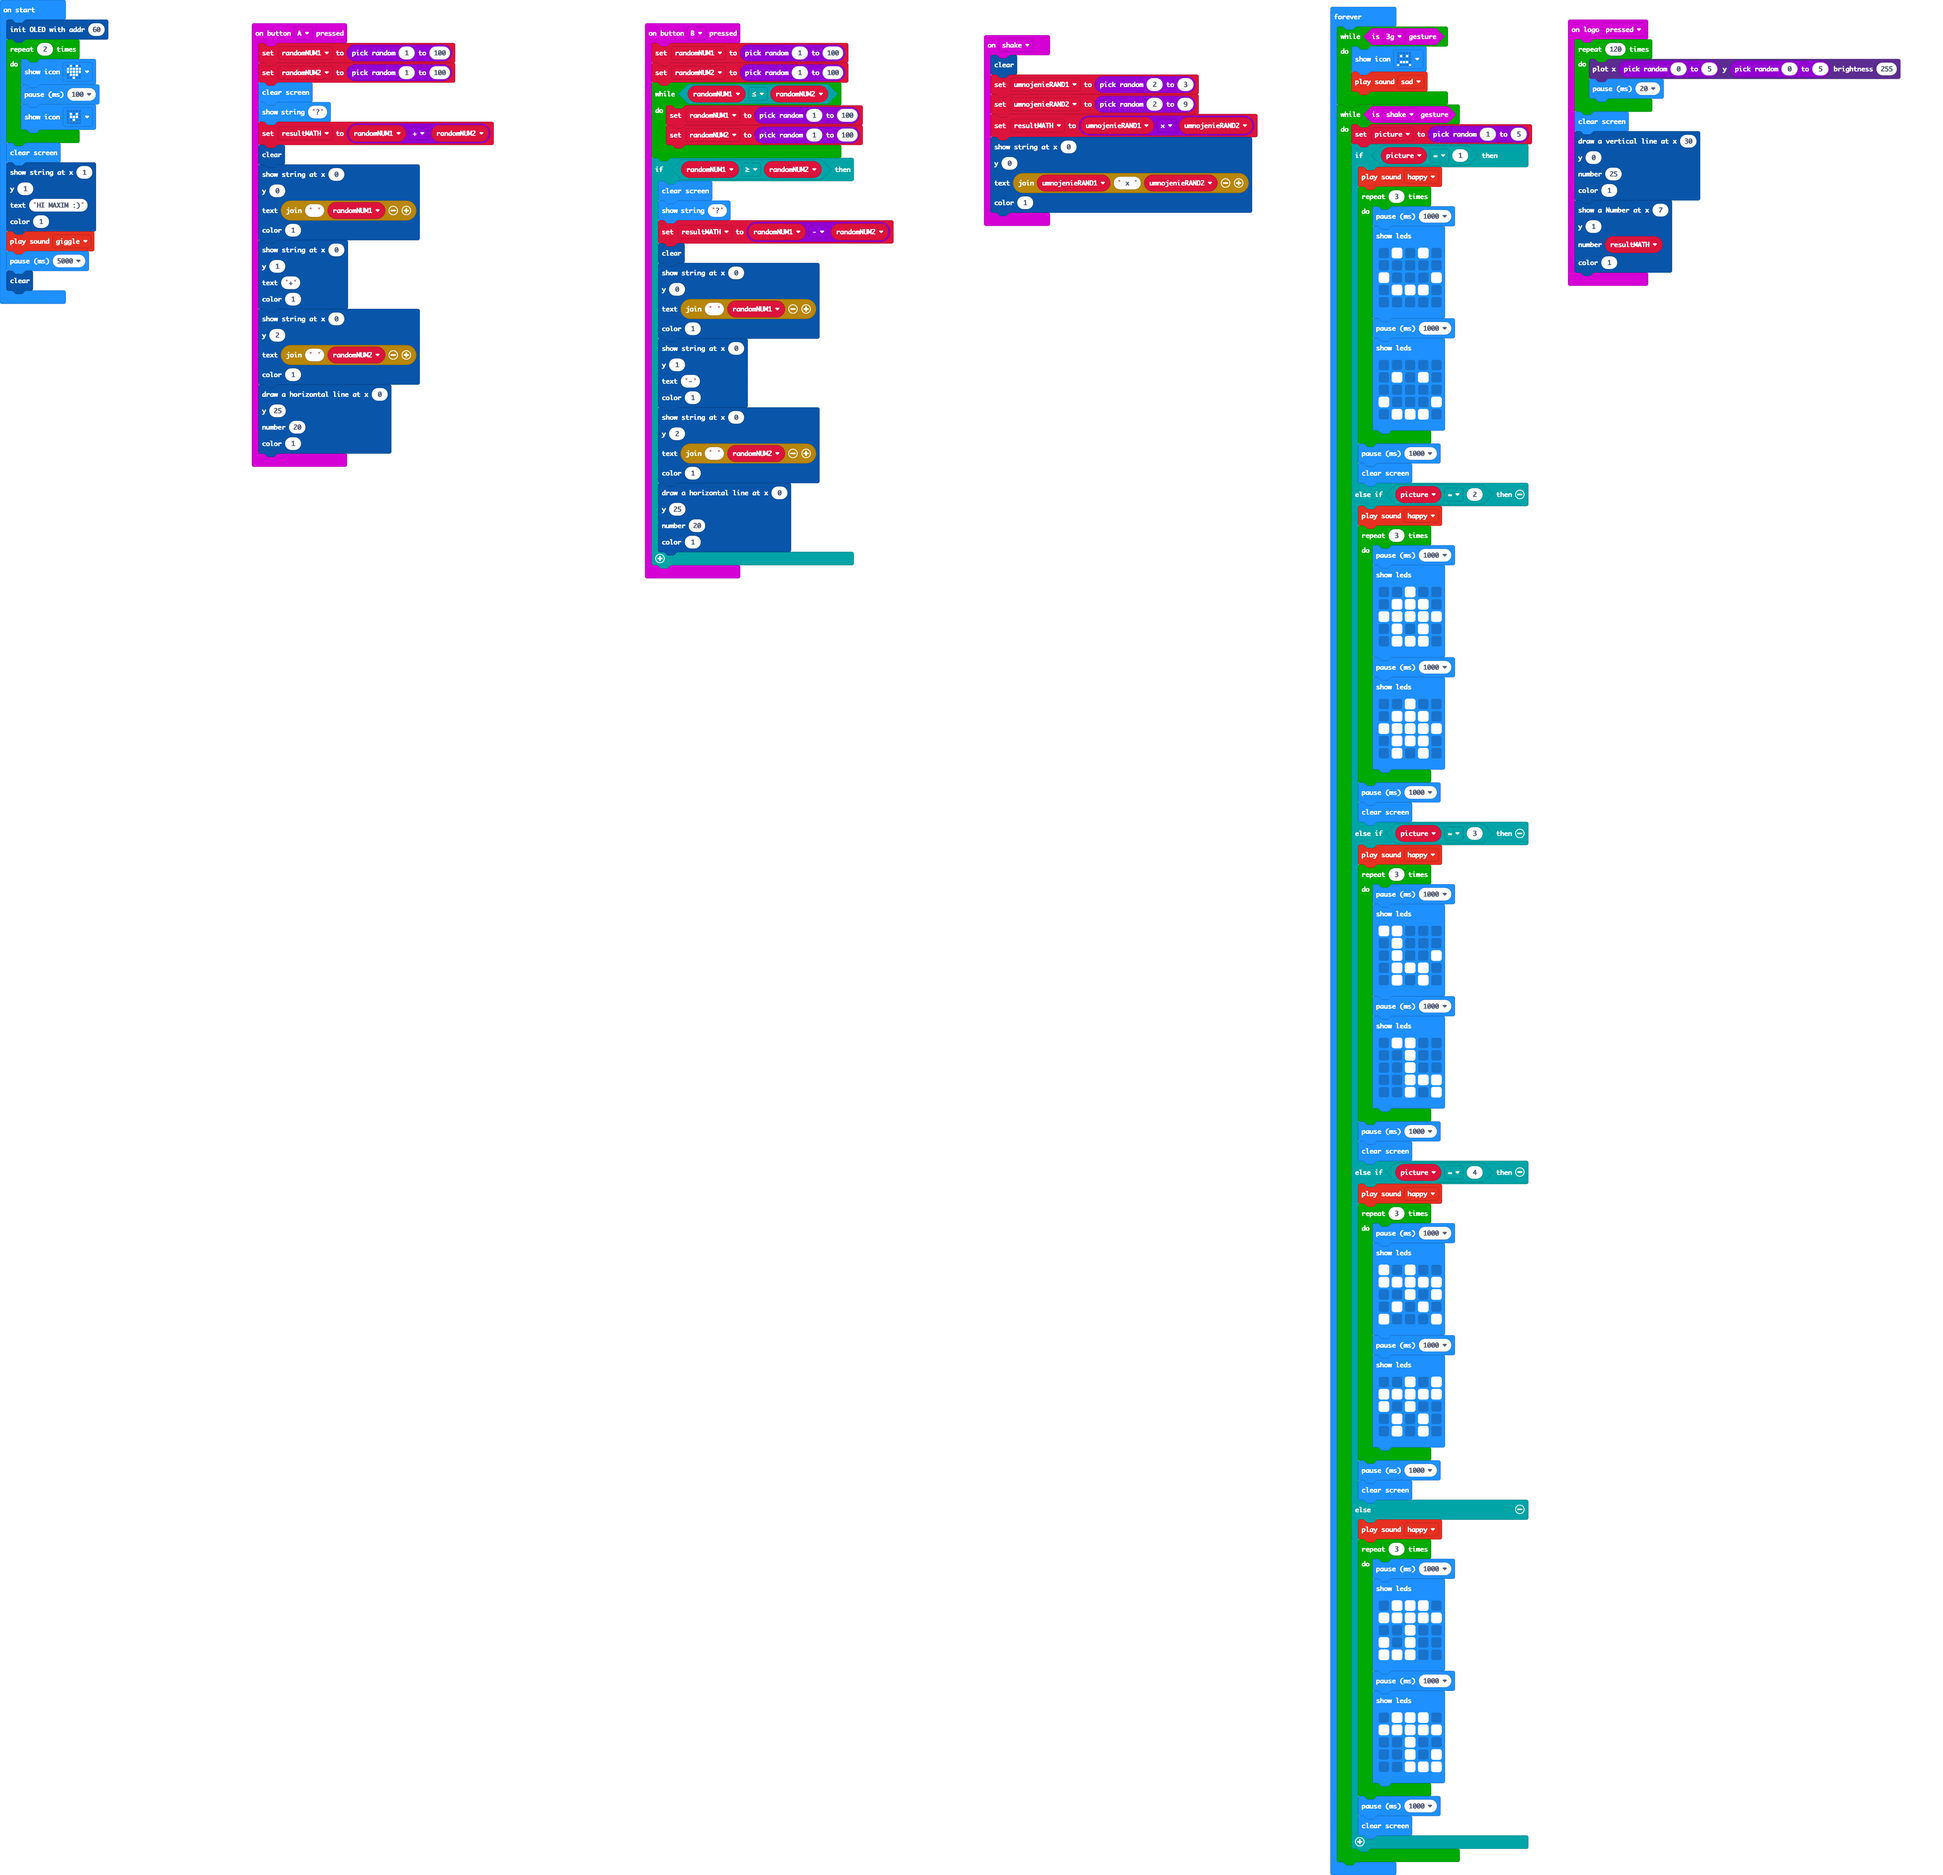
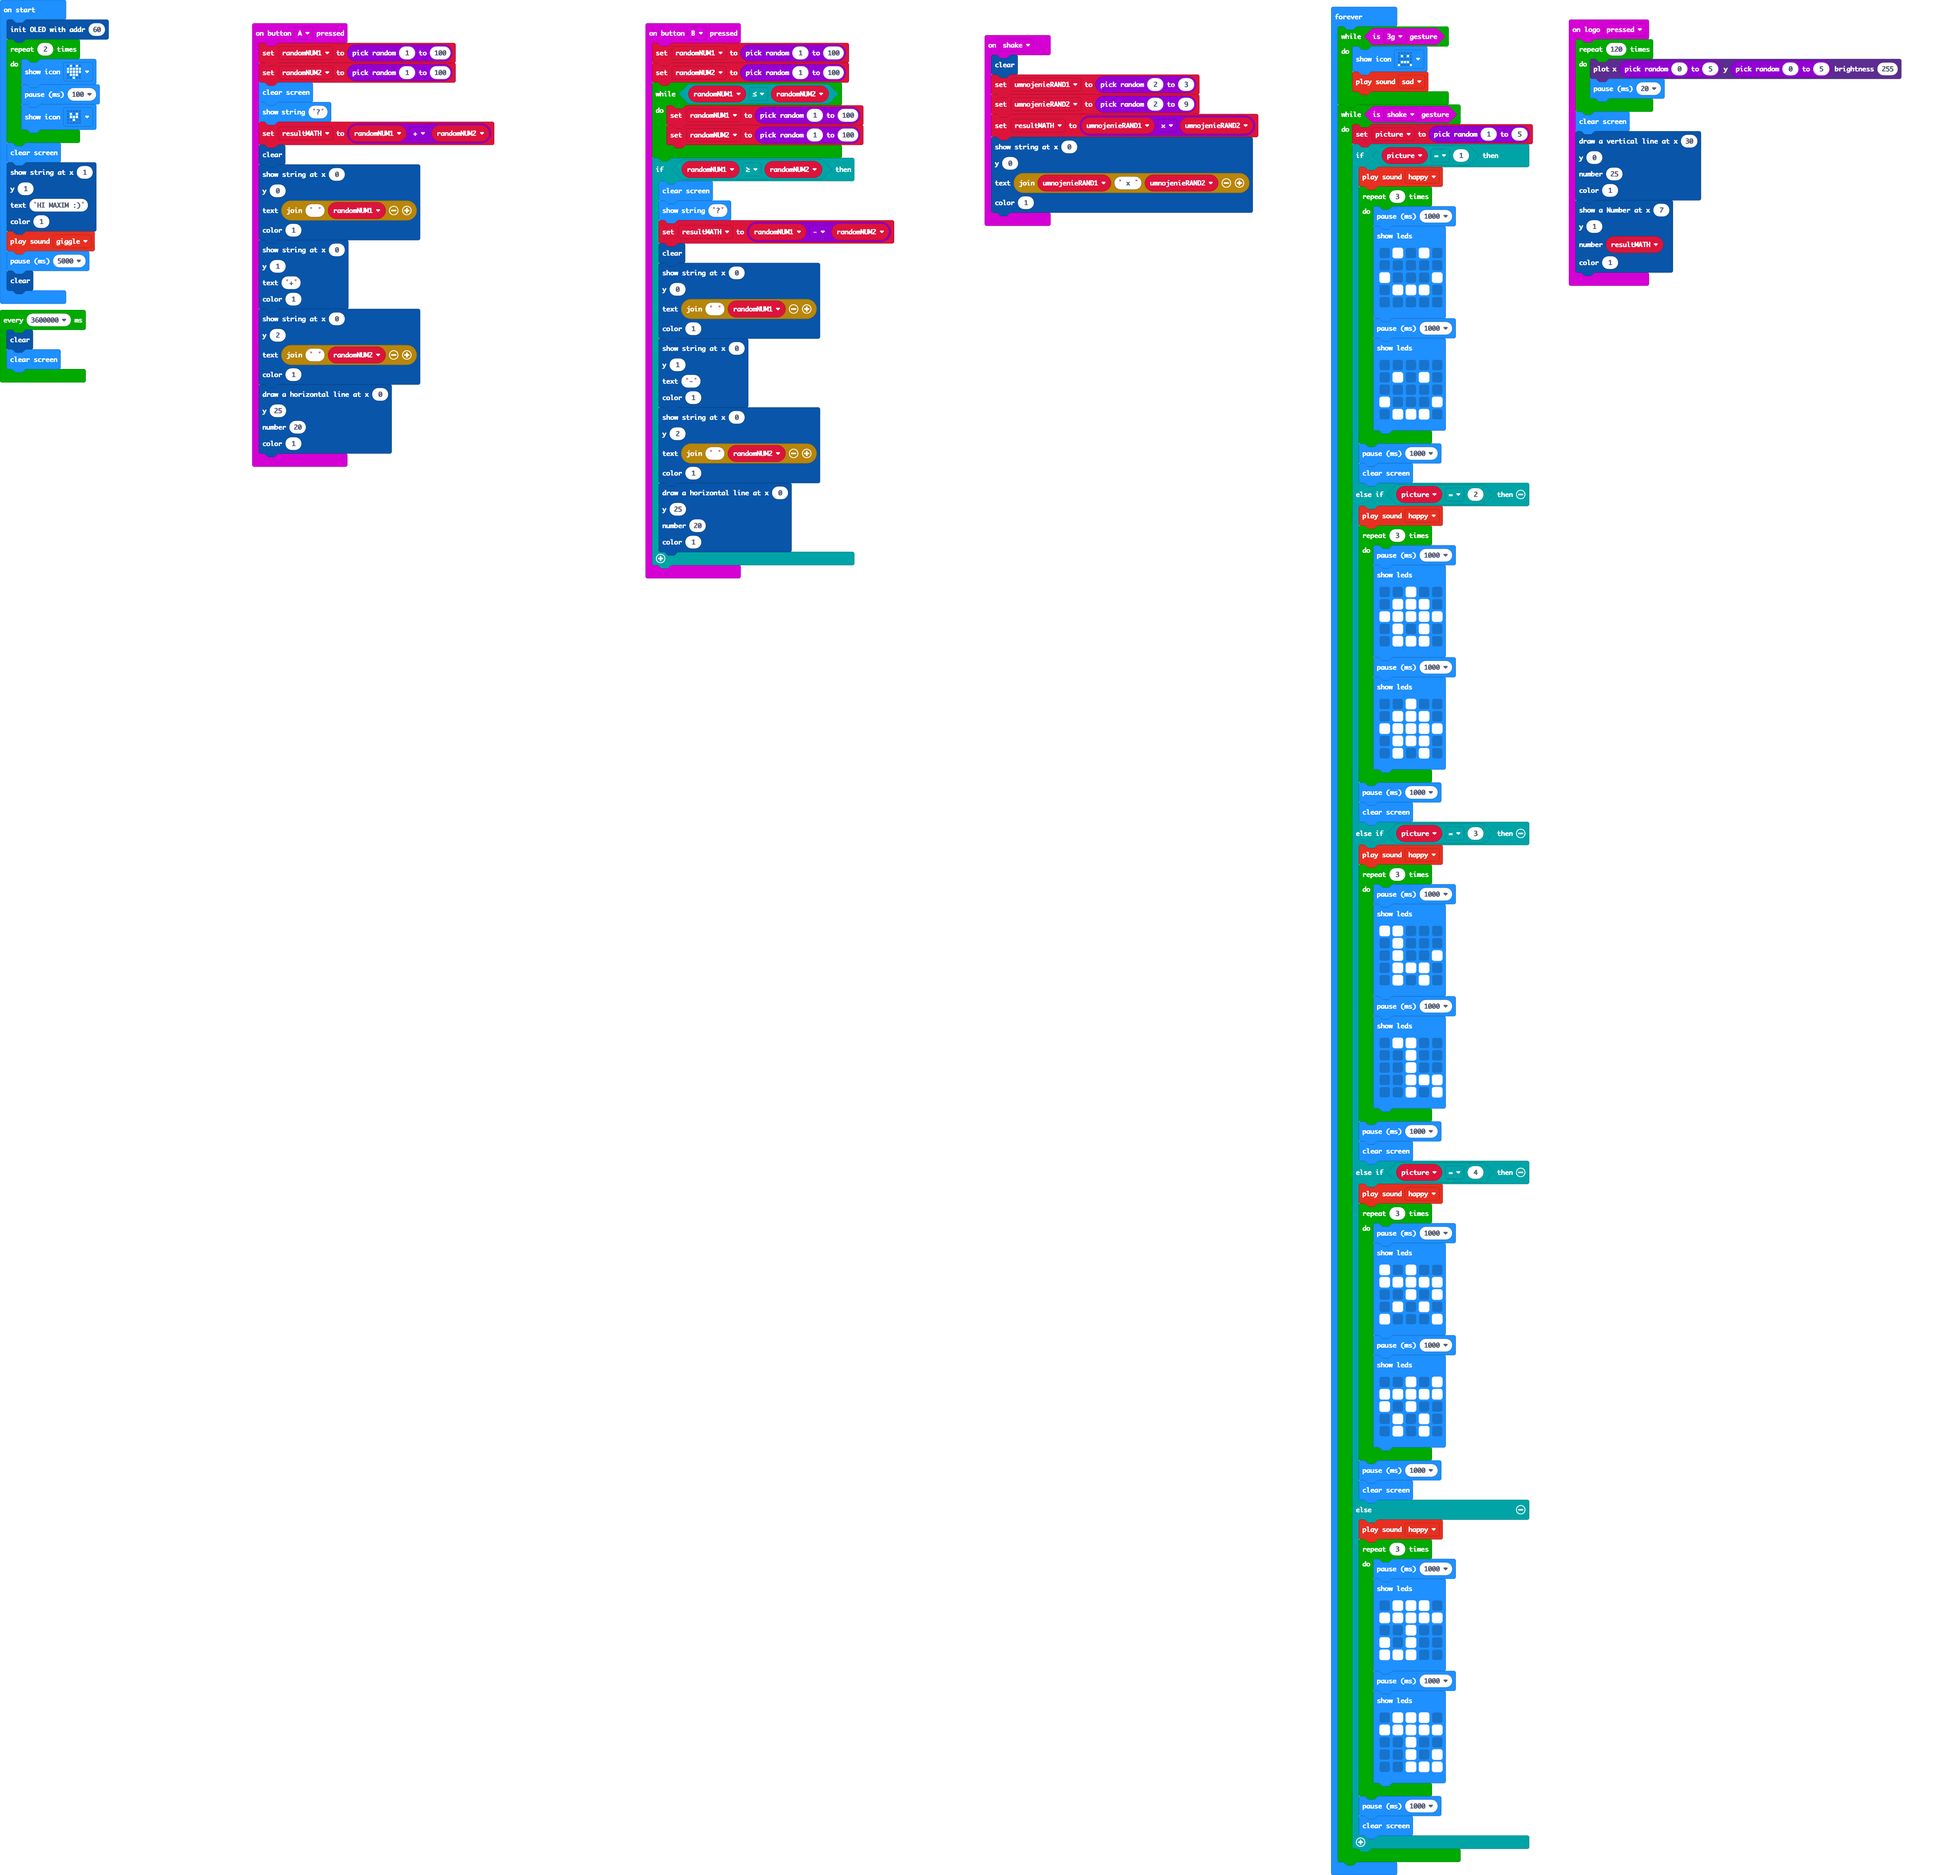
Update main.blocks, main.ts

Changed region(s): [[0.0, 0.1554, 0.0621, 0.2176]]

diff --git a/main.ts b/main.ts
@@ -241,3 +241,7 @@ basic.forever(function () {
         }
     }
 })
+loops.everyInterval(3600000, function () {
+    OLED12864_I2C.clear()
+    basic.clearScreen()
+})
